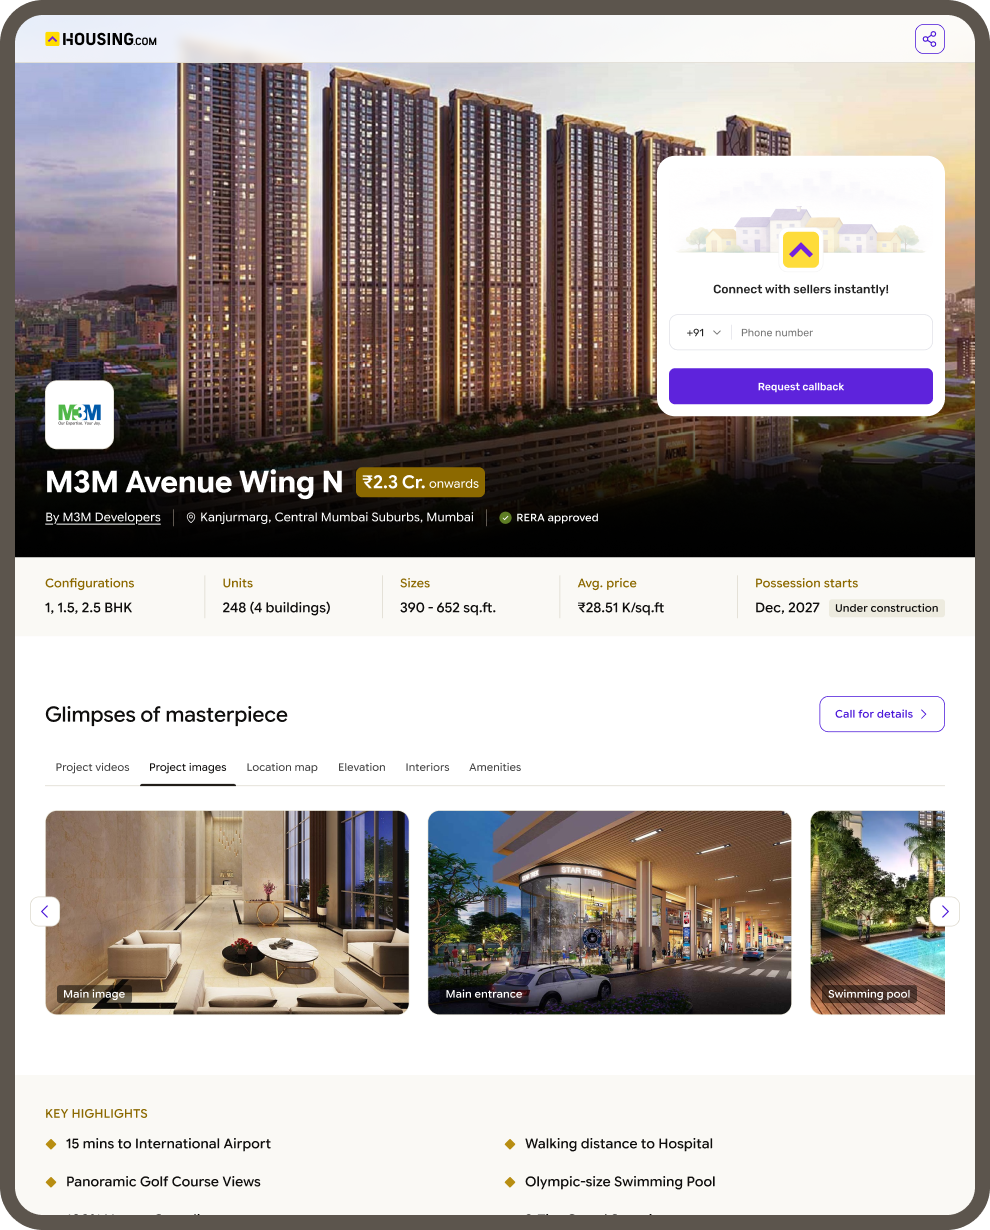
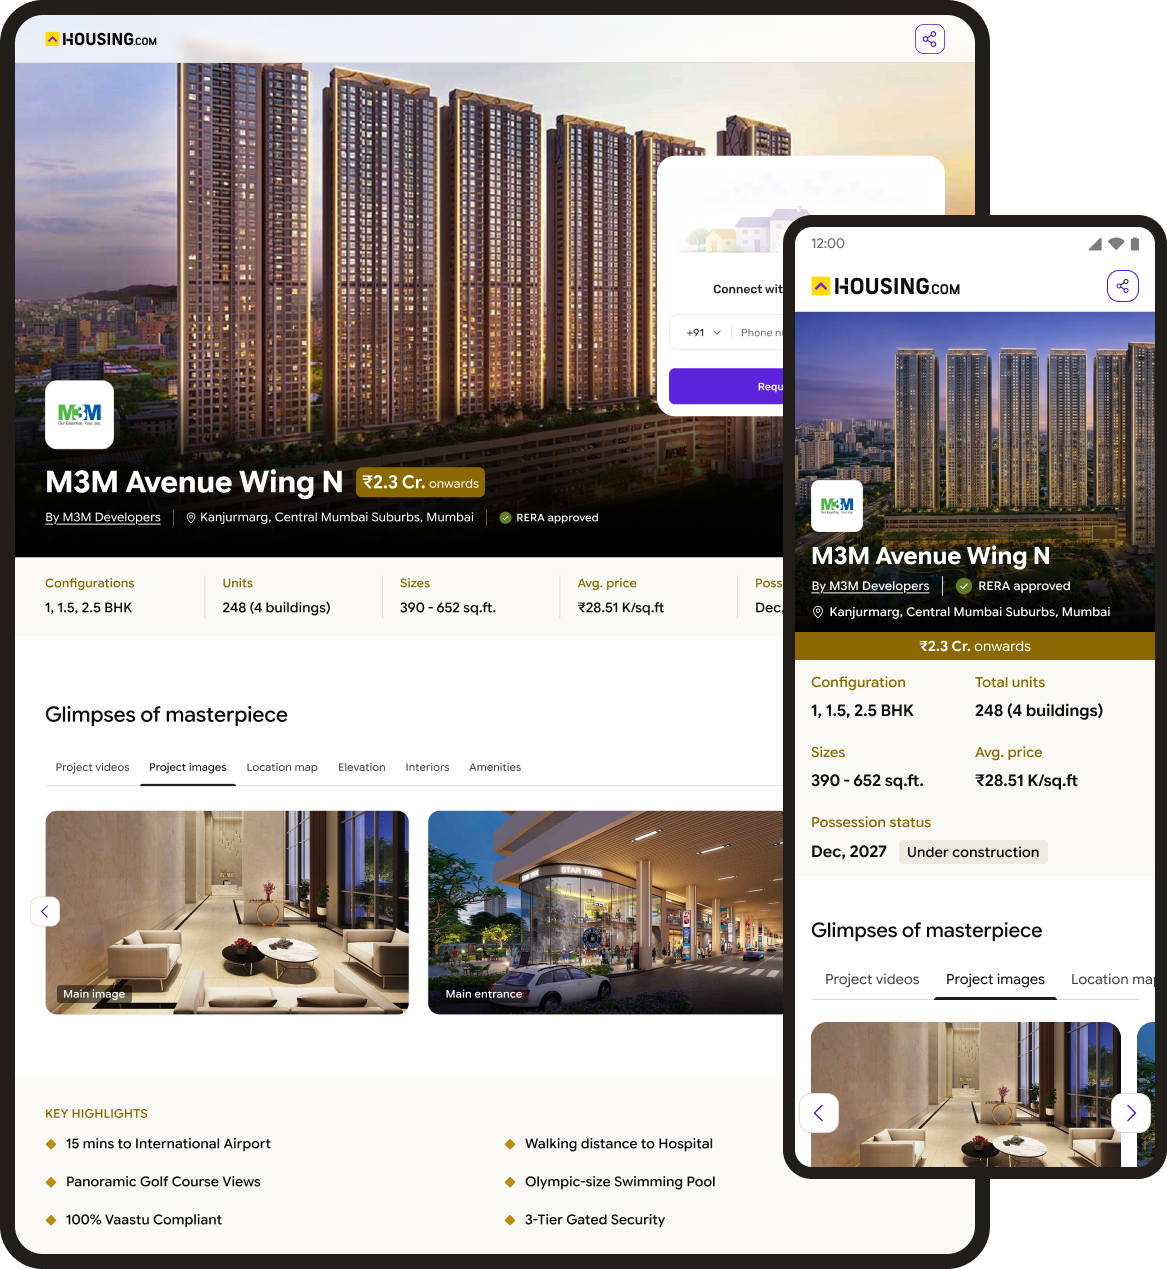
Update cage page images and refine developer profile
Cage page
- New hero image (tablet + phone); frame matches its proportions
- "A more intentional first impression" and "Letting the images do their
  job" now use mobile before/after shots at a matched phone scale
- Top before/after lightbox opens the desktop shots it shows

Developer profile
- Add the solution GIF under band 02
- Centre the "Two tabs" intro and the Projects/Insights switch
- Insights tab: intro in the left column, points level with their
  callouts, full-height after screenshot with a matching Before frame,
  point 04 rewritten (promoting new launches)
- Design lens: replace resident reviews with verified RERA and
  possession status
- New competitor analysis board

diff --git a/case-studies/developer-profile-redesign.html b/case-studies/developer-profile-redesign.html
@@ -197,12 +197,16 @@
     <section class="section">
       <div class="container">
 
+        <!-- Solution overview: redesigned developer profile, animated -->
+        <figure class="shot shot--lead shot--native reveal">
+          <img src="../assets/img/developer-profile/Solution.gif" alt="The redesigned developer profile, animated" width="1046" height="582" loading="lazy" decoding="async">
+        </figure>
+
         <div class="story">
-          <div class="story__head reveal">
-            <span class="story__no">01</span>
+          <div class="story__head story__head--center reveal">
             <h3>Two tabs, each with a clear job</h3>
           </div>
-          <p class="story__lede reveal">I split the page into separate tabs: a scannable project list, and the developer’s profile information. This kept the developer info from getting lost between projects and brought down the length of the page significantly. Switch between the tabs below to see what each one does.</p>
+          <p class="story__lede story__lede--center reveal">I split the page into separate tabs: a scannable project list, and the developer’s profile information. This kept the developer info from getting lost between projects and brought down the length of the page significantly. Switch between the tabs below to see what each one does.</p>
 
           <div class="tabs reveal" data-tabs>
             <div class="tabs__bar" role="tablist" aria-label="Developer profile tabs">
@@ -253,10 +257,10 @@
             </div>
 
             <div class="tabs__panel" role="tabpanel" id="panel-insights" aria-labelledby="tab-insights" tabindex="0">
-              <p class="tabs__intro">A detailed view of what the developer has been doing, and their track record.</p>
               <ol class="tabs__points">
               <li class="tabs__point tabs__point--shared">
                 <div class="tabs__group">
+                  <p class="tabs__intro">A detailed view of what the developer has been doing, and their track record.</p>
                   <div class="tabs__text">
                     <span class="story__no">01</span>
                     <h4>Latest updates first</h4>
@@ -274,24 +278,25 @@
                   </div>
                   <div class="tabs__text">
                     <span class="story__no">04</span>
-                    <h4>New launches, not everything</h4>
-                    <p>New launches are Housing.com’s highest-converting category, bringing in the most leads. So this section shows only new launches, not resale or other projects.</p>
+                    <h4>Promoting new launches</h4>
+                    <p>New launch projects saw Housing.com’s highest lead conversions. So they’re promoted here, building on Most appreciated projects.</p>
                   </div>
                 </div>
                 <!-- One before/after pair covers points 01–04 -->
                 <div class="tabs__ba">
-                  <figure>
-                    <span class="label state state--before">Before</span>
-                    <div class="tabs__frame tabs__frame--empty">
-                      <p>Developer insights didn’t exist. Nothing supported a buyer’s decision.</p>
+                  <figure class="tabs__before">
+                    <div class="tabs__sticky">
+                      <span class="label state state--before">Before</span>
+                      <div class="tabs__frame tabs__frame--empty">
+                        <p>Developer insights didn’t exist. Nothing supported a buyer’s decision.</p>
+                      </div>
                     </div>
                   </figure>
                   <figure>
                     <span class="label state state--after">After</span>
-                    <div class="tabs__frame tabs__frame--scroll" tabindex="0" aria-label="Insights tab screenshot, scrollable">
+                    <div class="tabs__clip">
                       <img src="../assets/img/developer-profile/insights-after.png" alt="New Insights tab: latest updates at the top, a price appreciation section highlighting the developer's best projects, a developer summary, and a new launches section at the end" width="461" height="3778" loading="lazy" decoding="async">
                     </div>
-                    <span class="tabs__hint">Scroll to see the full tab</span>
                   </figure>
                 </div>
               </li>
@@ -343,7 +348,7 @@
                 </div>
                 <ul class="lens__proofs">
                   <li><svg class="icon" viewBox="0 0 256 256" fill="currentColor" aria-hidden="true"><path d="M229.66,77.66l-128,128a8,8,0,0,1-11.32,0l-56-56a8,8,0,0,1,11.32-11.32L96,188.69,218.34,66.34a8,8,0,0,1,11.32,11.32Z"/></svg><span>What price data shows over time.</span></li>
-                  <li><svg class="icon" viewBox="0 0 256 256" fill="currentColor" aria-hidden="true"><path d="M229.66,77.66l-128,128a8,8,0,0,1-11.32,0l-56-56a8,8,0,0,1,11.32-11.32L96,188.69,218.34,66.34a8,8,0,0,1,11.32,11.32Z"/></svg><span>What residents independently said.</span></li>
+                  <li><svg class="icon" viewBox="0 0 256 256" fill="currentColor" aria-hidden="true"><path d="M229.66,77.66l-128,128a8,8,0,0,1-11.32,0l-56-56a8,8,0,0,1,11.32-11.32L96,188.69,218.34,66.34a8,8,0,0,1,11.32,11.32Z"/></svg><span>Verified RERA and possession status.</span></li>
                 </ul>
               </div>
 
@@ -365,7 +370,7 @@
           </div>
           <!-- IMG 7: competitor analysis (Notion: 4. The process) -->
           <figure class="shot shot--peek reveal">
-            <img src="../assets/img/developer-profile/competitors-2400.webp" alt="Competitor analysis board: Housing's developer page beside competitor developer pages such as DLF, Adani Realty and M3M, with highlighted sections and notes on what each one shows" width="2400" height="4590" loading="lazy" decoding="async">
+            <img src="../assets/img/developer-profile/competitors-2400.jpg" alt="Competitor analysis board: Housing.com's developer page beside 99acres, Magicbricks, DLF, Adani Realty, M3M and Godrej, with notes and highlighted sections on what each one shows" width="2400" height="4764" loading="lazy" decoding="async">
             <span class="shot__hint" aria-hidden="true">Click to view the full board</span>
           </figure>
           <div class="insight-split">

diff --git a/case-studies/cage-page-redesign.html b/case-studies/cage-page-redesign.html
@@ -61,7 +61,7 @@
           </dl>
         </div>
         <div class="hero__visual hero__visual--device">
-          <img src="../assets/img/cage-page/cage-page-hero.png" alt="Redesigned cage page shown on a tablet" width="990" height="1230" decoding="async">
+          <img src="../assets/img/cage-page/cage-page-hero.png" alt="Redesigned cage page shown on a tablet and a phone" width="1167" height="1269" decoding="async">
         </div>
       </div>
     </header>
@@ -83,11 +83,11 @@
         <div class="ba">
           <figure class="reveal">
             <figcaption class="label state state--before">Before</figcaption>
-            <img src="../assets/img/cage-page/before-1100.png" data-full="../assets/img/cage-page/01before.png" alt="The old cage page: dark background, dense price table and the gallery at the very bottom" width="1100" height="1521" loading="lazy" decoding="async">
+            <img src="../assets/img/cage-page/before-1100.png" alt="The old cage page: dark background, dense price table and the gallery at the very bottom" width="1100" height="1521" loading="lazy" decoding="async">
           </figure>
           <figure class="reveal">
             <figcaption class="label state state--after">After</figcaption>
-            <img src="../assets/img/cage-page/after-1100.png" data-full="../assets/img/cage-page/01after.png" alt="The redesigned cage page: clear hero, key project details, gallery and highlights" width="1100" height="1518" loading="lazy" decoding="async">
+            <img src="../assets/img/cage-page/after-1100.png" alt="The redesigned cage page: clear hero, key project details, gallery and highlights" width="1100" height="1518" loading="lazy" decoding="async">
           </figure>
         </div>
       </div>
@@ -223,15 +223,15 @@
           </div>
           <p class="story__lede reveal">At this stage, buyers aren't hunting for exact unit prices. They want to know whether the project fits their budget and what it offers. The hero needed to answer that at a glance.</p>
           <!-- IMG 4: hero section before / after -->
-          <div class="compare">
+          <div class="compare compare--phones">
             <figure class="reveal">
               <span class="label state state--before">Before</span>
-              <img src="../assets/img/cage-page/02before-1100.png" data-full="../assets/img/cage-page/02before.png" alt="Old hero: a busy background image washes out the project name, with a long price table beside it" width="1100" height="687" loading="lazy" decoding="async">
+              <img src="../assets/img/cage-page/01before.png" alt="Old hero on mobile, annotated: 1, the project name and address washed out by a busy photo; 2, the long price breakdown below" width="924" height="1600" loading="lazy" decoding="async">
               <p>The background image drained the contrast out of the project name and address. Below it, a long, complicated price breakdown answered a question nobody was asking yet.</p>
             </figure>
             <figure class="reveal">
               <span class="label state state--after">After</span>
-              <img src="../assets/img/cage-page/02after-1100.png" data-full="../assets/img/cage-page/02after.png" alt="New hero: project name, price range and configurations in a clear hierarchy over a calmer image" width="1100" height="687" loading="lazy" decoding="async">
+              <img src="../assets/img/cage-page/01after.png" alt="New hero on mobile: project name, price band and configurations in a clear hierarchy over a calmer image" width="720" height="1600" loading="lazy" decoding="async">
               <p>The image sets the mood without overpowering the details. Name, price range and configurations sit in a clear hierarchy, so a visitor sees the whole project at once.</p>
             </figure>
           </div>
@@ -275,15 +275,15 @@
           </div>
           <p class="story__lede reveal">For a premium project, photos are the pitch. I moved the gallery up the page and gave it the viewing experience it deserved.</p>
           <!-- IMG 5 / 6: gallery before, lightbox after -->
-          <div class="compare">
+          <div class="compare compare--phones">
             <figure class="reveal">
               <span class="label state state--before">Before</span>
-              <img src="../assets/img/cage-page/03before-1100.png" data-full="../assets/img/cage-page/03before.png" alt="Old gallery: a single image strip with no viewer and no image count" width="1100" height="478" loading="lazy" decoding="async">
+              <img class="is-crop" src="../assets/img/cage-page/03before.png" alt="Old gallery on mobile, annotated: 1, a single image strip with no dedicated viewer and no image count" width="1150" height="986" loading="lazy" decoding="async">
               <p>The gallery didn't open into a dedicated viewer and didn't show how many images there were, which left a poor impression of an otherwise premium project.</p>
             </figure>
             <figure class="reveal">
               <span class="label state state--after">After</span>
-              <img src="../assets/img/cage-page/03after-1100.png" data-full="../assets/img/cage-page/03after.png" alt="New full-screen lightbox showing a project photo with navigation and image count" width="1100" height="773" loading="lazy" decoding="async">
+              <img src="../assets/img/cage-page/03after.png" alt="New full-screen gallery on mobile: tabs for images, videos and location, large photos, and brochure and floor plan buttons" width="720" height="1600" loading="lazy" decoding="async">
               <p>Carousels for browsing, plus a dedicated lightbox so photos and videos can be viewed in full, where their visual impact is strongest.</p>
             </figure>
           </div>

diff --git a/assets/css/styles.css b/assets/css/styles.css
@@ -693,8 +693,9 @@ ul {
   border: 0;
 }
 
+/* Matches the hero PNG (1167 × 1269) so nothing is letterboxed */
 .hero__visual--device {
-  aspect-ratio: 4 / 5;
+  aspect-ratio: 1167 / 1269;
 }
 
 .hero__visual--device img {
@@ -1328,6 +1329,17 @@ ul {
   font-size: var(--text-body);
   line-height: 1.6;
   color: var(--text-secondary);
+}
+
+/* Centred intro for a story that leads into a full-width component */
+.story__head--center {
+  justify-content: center;
+  text-align: center;
+}
+
+.story__lede--center {
+  margin-inline: auto;
+  text-align: center;
 }
 
 @media (min-width: 768px) {
@@ -2315,6 +2327,7 @@ ul {
   display: flex;
   max-width: 100%;
   width: fit-content;
+  margin-inline: auto;
   gap: calc(var(--space-xs) / 2);
   padding: calc(var(--space-xs) / 2);
   border: 1px solid var(--border-default);
@@ -2528,30 +2541,69 @@ ul {
   color: var(--text-muted);
 }
 
-/* Very tall screenshot: scroll inside the frame (click still opens the lightbox) */
-.tabs__frame--scroll {
-  overflow-y: auto;
-  overscroll-behavior: contain;
-  border: 0;
-  border-radius: 0;
-  background: var(--warm-0);
+/* Very tall screenshot shown in full flow (no inner scroll), clipped below the
+   last annotated section (2650 of 3778px) so the site footer isn't shown */
+.tabs__clip {
+  aspect-ratio: 461 / 2650;
+  overflow: hidden;
 }
 
-.tabs__frame--scroll img {
+.tabs__clip img {
   display: block;
   width: 100%;
   max-width: none;
   max-height: none;
 }
 
-.tabs__frame--scroll:focus-visible {
-  outline: 2px solid var(--accent);
-  outline-offset: 2px;
+/* Before matches the after column's height; everything scrolls together */
+.tabs__point--shared .tabs__ba {
+  align-items: stretch;
 }
 
-.tabs__hint {
-  font-size: var(--fs-12);
-  color: var(--text-muted);
+.tabs__before {
+  grid-template-rows: 1fr;
+}
+
+.tabs__sticky {
+  display: grid;
+  grid-template-rows: auto 1fr;
+  gap: var(--space-s);
+}
+
+.tabs__before .tabs__frame {
+  height: auto;
+}
+
+/* Points spread down the column alongside the tall screenshot */
+.tabs__point--shared .tabs__group {
+  align-self: stretch;
+  align-content: space-around;
+}
+
+/* Wide screens: each point sits level with its numbered callout on the
+   screenshot (callout centres at these fractions of the column height) */
+@media (min-width: 1100px) {
+  .tabs__point--shared .tabs__group {
+    position: relative;
+    display: block;
+    align-content: start;
+  }
+
+  .tabs__point--shared .tabs__group .tabs__text {
+    position: absolute;
+    left: 0;
+    right: 0;
+    transform: translateY(-50%);
+  }
+
+  .tabs__point--shared .tabs__group .tabs__intro {
+    margin-bottom: 0;
+  }
+
+  .tabs__point--shared .tabs__group .tabs__text:nth-of-type(1) { top: 29.7%; }
+  .tabs__point--shared .tabs__group .tabs__text:nth-of-type(2) { top: 43.1%; }
+  .tabs__point--shared .tabs__group .tabs__text:nth-of-type(3) { top: 63.8%; }
+  .tabs__point--shared .tabs__group .tabs__text:nth-of-type(4) { top: 78%; }
 }
 
 /* Card crops are shorter than full phone screens */
@@ -2639,6 +2691,26 @@ ul {
   height: auto;
   border: 1px solid var(--border-subtle);
   border-radius: var(--radius-m);
+}
+
+/* Phone screenshots: same height on both sides so the phones match in size
+   (the before PNG is wider only because of its annotation strip) */
+.compare--phones figure > img {
+  width: auto;
+  max-width: 100%;
+  height: min(448px, 105vw);
+  object-fit: contain;
+  object-position: left top;
+  border: 0;
+  border-radius: 0;
+}
+
+/* A cropped screen (not a full-height phone): sized so its screen width matches
+   the full phones beside it. 0.45 = 720/1600 phone ratio; × 1150/936 for the
+   crop's total width over its screen width */
+.compare--phones figure > img.is-crop {
+  width: calc(min(448px, 105vw) * 0.5529);
+  height: auto;
 }
 
 .compare figure > p {
